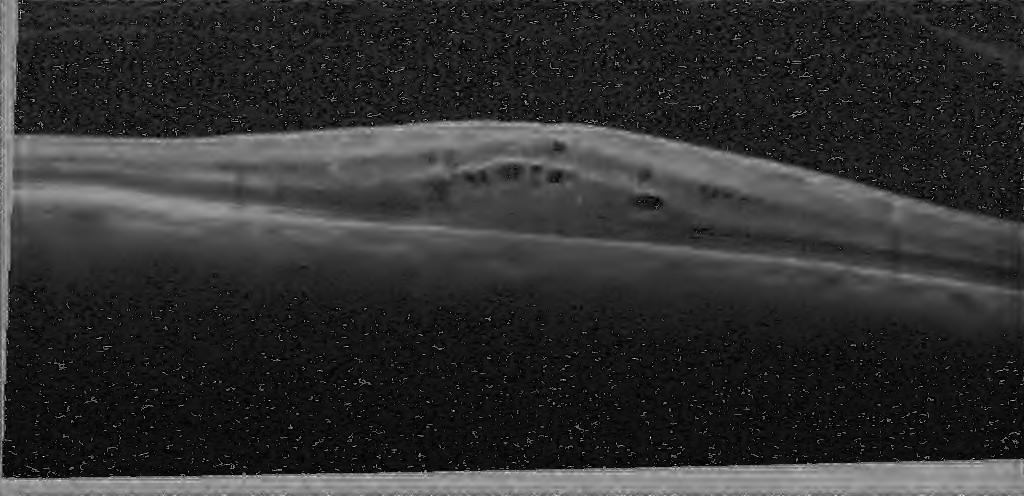
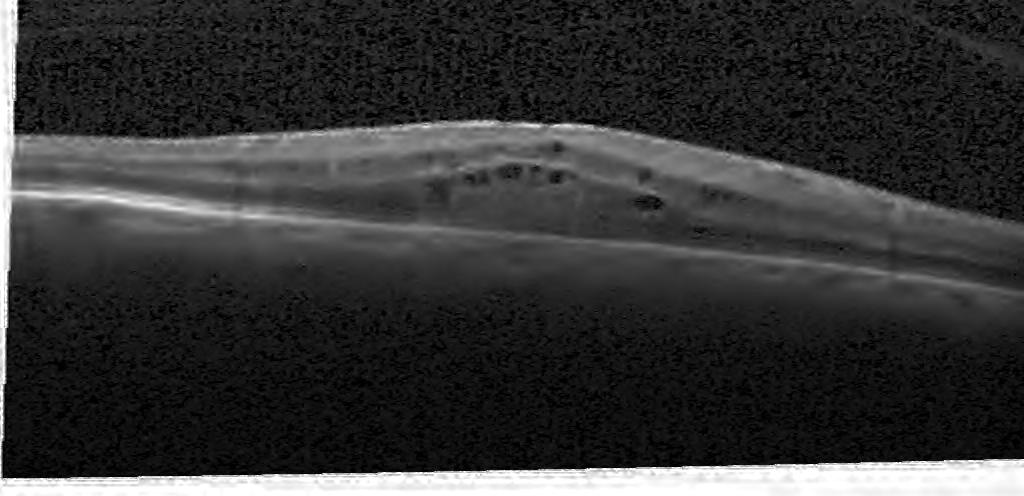
Wavelt up

diff --git a/State_of_Art/Wavelt_Filter.m b/State_of_Art/Wavelt_Filter.m
@@ -16,8 +16,8 @@ for k = 1:length(myFiles)
         for x = 1:length(I(:,1))
             for y = 1:length(I(1,:))
                 I(x,y) = log(I(x,y));
-                if abs(I(x,y)) > 5
-                    I(x,y) = 5;
+                if abs(log(I(x,y))) > 5
+                    I(x,y) = -1;
                 end
             end
         end
